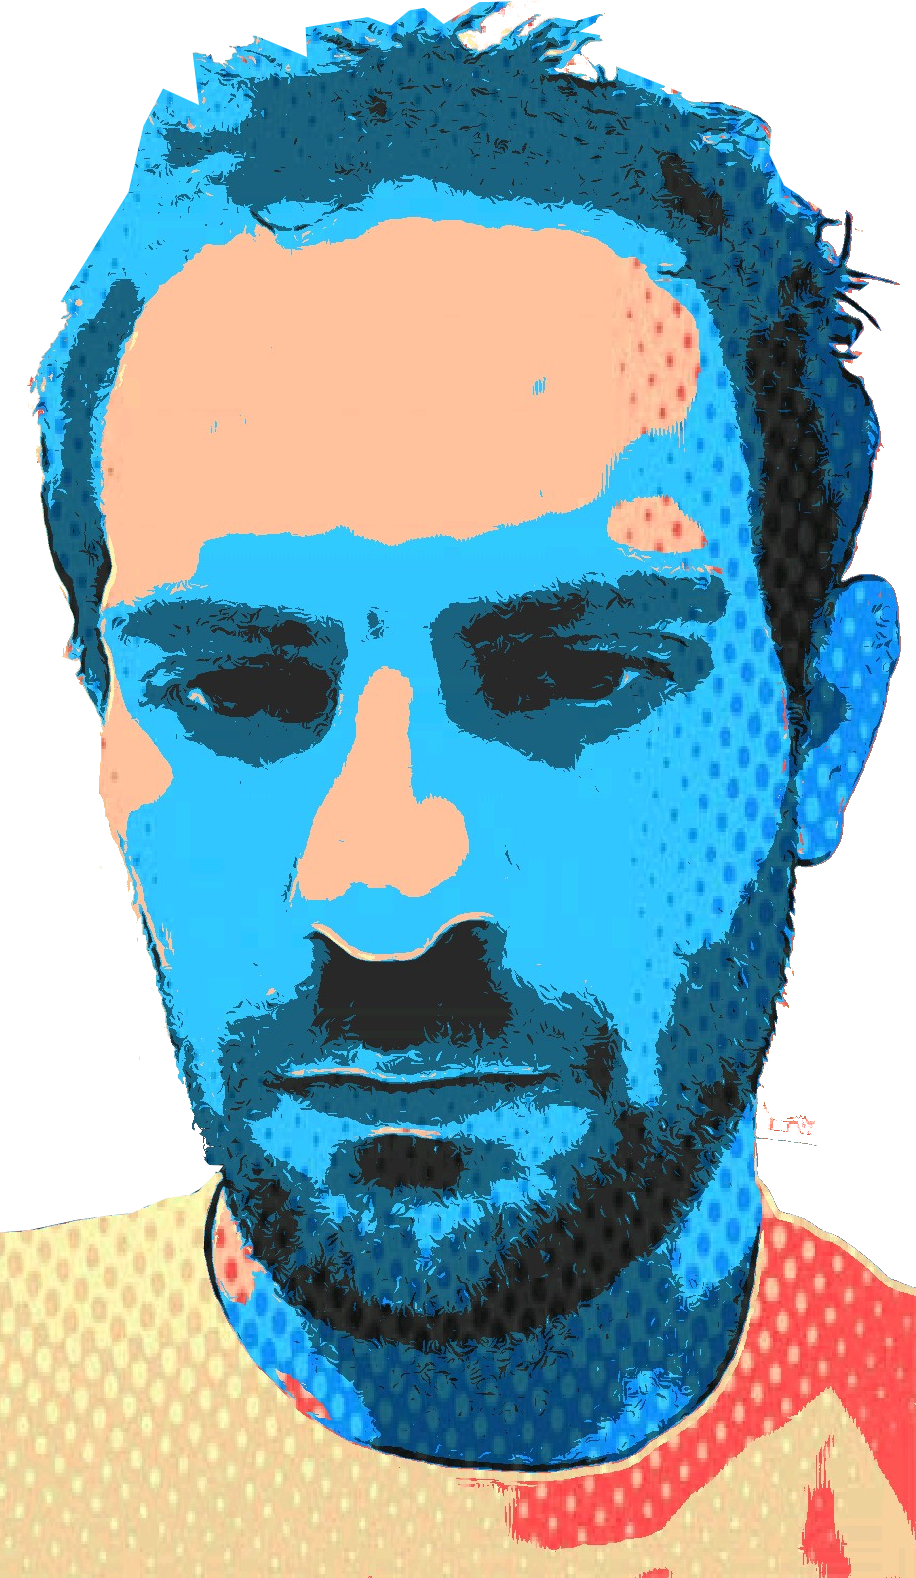
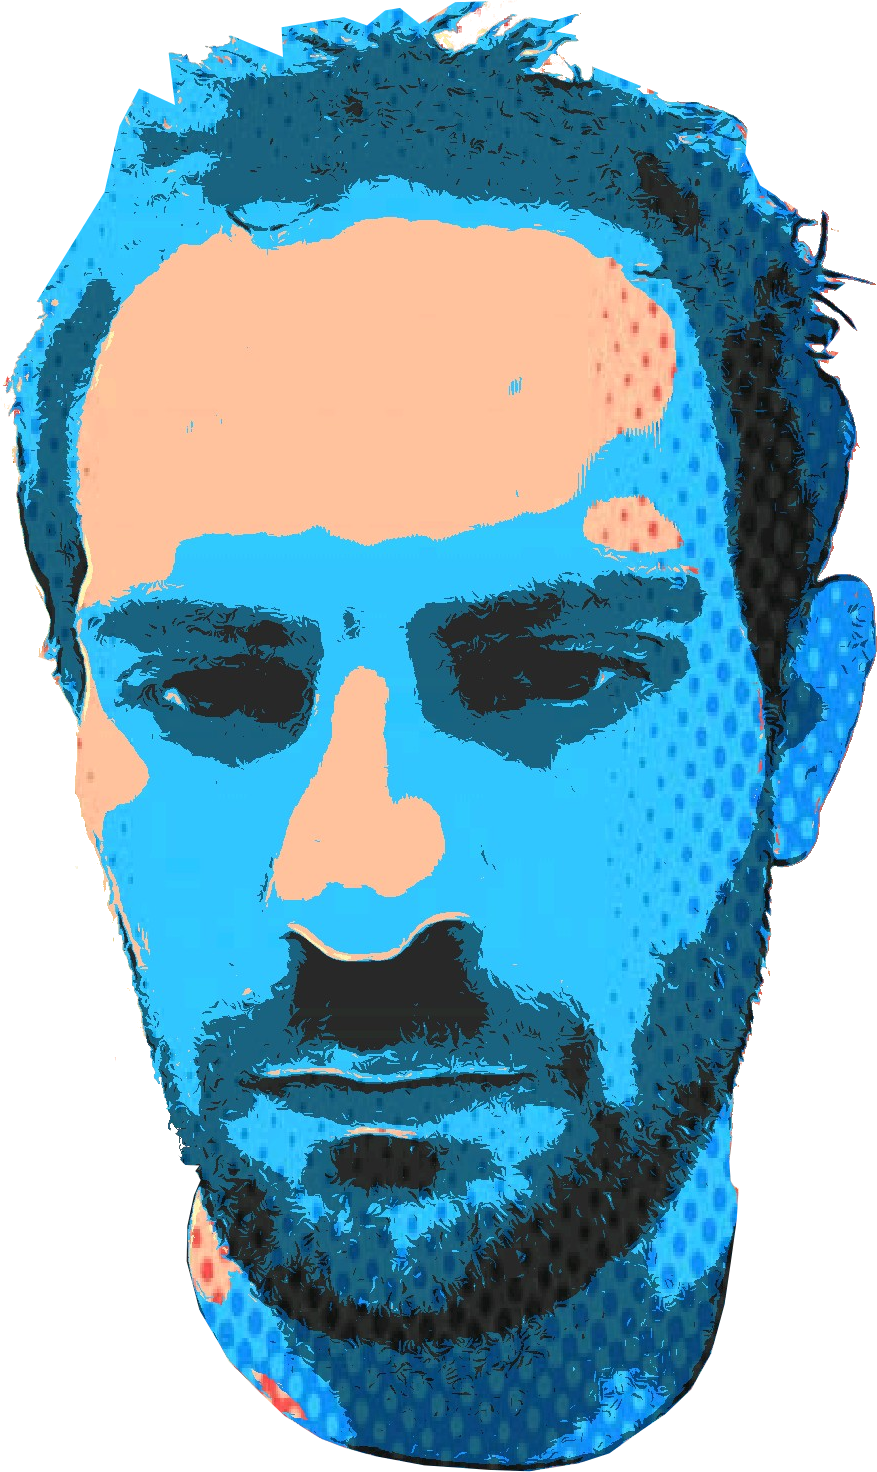
"Clean up and fix side navigation"

diff --git a/Portfolio2.css b/Portfolio2.css
@@ -4,40 +4,53 @@
                 box-sizing: border-box;
                 overflow: hidden;
             }
+            
+            body {
+                background-image: url("meredblue.png"), radial-gradient(circle, rgba(48, 201, 254, 1) 20%, rgba(243, 208, 156, 1) 67%, rgba(254, 83, 83, 1) 82%, rgba(22, 97, 127, 1) 87%, rgba(24, 25, 25, 1) 100%);
+                ;
+                background-position: center;
+                background-repeat: no-repeat;
+                background-size: contain;
+            }
             /** ===========GRID================ **/
             
             .grid-container {
                 display: grid;
                 grid-template-columns: 0.4fr 1.1fr;
-                grid-template-rows: 0.4fr 1.1fr 0.4fr;
+                grid-template-rows: 0.4fr 1.1fr 0.1fr;
                 gap: 0px 0px;
                 grid-template-areas: "header header" "nav main" "footer footer";
             }
             
             .grid-head {
                 grid-area: header;
-                background-color: black;
-                font-family: 'Voodoo Vampire';
+                background-image: url('DOLLLOGO.png');
+                background-repeat: no-repeat;
+                background-position: right;
+                background-size: contain;
                 max-height: 175px;
             }
             
-            .grid-head h1 {
+            .main h1 {
                 display: flex;
                 justify-content: flex-end;
                 font-size: 6vw;
-                margin-top: -90px;
-                color: green;
             }
             /** ===========NAVIGATION================ **/
             
+            body {
+                transition: background-color .5s;
+            }
+            
             .nav {
-                grid-area: nav;
-                margin: auto;
-                width: 50%;
+                height: 100%;
+                width: 0;
                 position: fixed;
                 z-index: 1;
                 top: 0;
                 left: 0;
+                background-color: #111;
+                overflow-x: hidden;
                 transition: 0.5s;
                 padding-top: 60px;
             }
@@ -51,9 +64,11 @@
                 transition: 0.3s;
             }
             
-            .nav a:hover {}
+            .nav a:hover {
+                color: #f1f1f1;
+            }
             
-            .nav .closbtn {
+            .nav .closebtn {
                 position: absolute;
                 top: 0;
                 right: 25px;
@@ -63,19 +78,20 @@
             /** ===========MAIN================ **/
             
             .main {
-                background-image: url("meredblue.png");
-                background-position: center;
-                background-repeat: no-repeat;
-                background-size: cover;
                 grid-area: main;
                 min-height: 400px;
+            }
+            
+            #main {
+                transition: margin-left .5s;
+                padding: 16px;
             }
             /** ===========FOOTER================ **/
             
             .foot {
                 display: flex;
                 grid-area: footer;
-                background-color: black;
+                background-color: transparent;
                 position: fixed;
                 bottom: 0;
                 right: 0;
@@ -84,7 +100,7 @@
             /** ===========SOCIAL MEDIA================ **/
             
             .social {
-                background-color: darkviolet;
+                background-color: transparent;
                 height: auto;
                 margin-left: auto;
             }
@@ -98,4 +114,21 @@
                 display: flex;
                 width: 100px;
                 margin: auto;
+            }
+            /** ===========TYPOGRAPHY================ **/
+            
+            #myname {
+                color: #FFFFFF;
+                text-shadow: 2px 2px 0 #4074b5, 2px -2px 0 #4074b5, -2px 2px 0 #4074b5, -2px -2px 0 #4074b5, 2px 0px 0 #4074b5, 0px 2px 0 #4074b5, -2px 0px 0 #4074b5, 0px -2px 0 #4074b5;
+                font-family: 'Monday Routines';
+            }
+            /** ===========MEDIA Q's================ **/
+            
+            @media screen and (max-height: 450px) {
+                .nav {
+                    padding-top: 15px;
+                }
+                .nav a {
+                    font-size: 18px;
+                }
             }

diff --git a/Portfolio2.html b/Portfolio2.html
@@ -17,8 +17,10 @@
 <body class="grid-container">
 
     <header class="grid-head">
-        <img src="DOLLLOGO.png" alt="Logo" id="logo">
-        <h1>Eric Dollinger</h1>
+
+
+    </header>
+    <aside>
         <nav id="myNav" class="nav">
             <a href="javascript:void(0)" class="closebtn" onclick="closeNav()">&times;</a>
             <a href="#" id="home">HOME</a>
@@ -27,10 +29,10 @@
             <a href="#" id="contact">CONTACT</a>
         </nav>
         <span style="font-size:30px;cursor:pointer" onclick="openNav()">&#9776; open</span>
-    </header>
+    </aside>
+    <main class="main" id="main">
 
-    <main class="main">
-        <h2>#</h2>
+        <h1 id="myname">Eric Dollinger</h1>
 
     </main>
     <footer class="foot">
@@ -42,18 +44,25 @@
             <a href="#" alt="My Twitter Page"><i class="fab fa-twitter-square fa-5x"></i></a>
             <a href="#" alt="My Linkedin Page"><i class="fab fa-linkedin fa-5x"></i></a>
         </div>
+
+
     </footer>
 
+    <script>
+        function openNav() {
+            document.getElementById("myNav").style.width = "250px";
+            document.getElementById("main").style.marginLeft = "250px";
+            document.body.style.backgroundColor = "rgba(0,0,0,0.4)";
+        }
+
+        function closeNav() {
+            document.getElementById("myNav").style.width = "0";
+            document.getElementById("main").style.marginLeft = "0";
+            document.body.style.backgroundColor = "white";
+        }
+    </script>
 
 </body>
-<script>
-    function openNav() {
-        document.getElementById("myNav").style.width = "250px";
-    }
 
-    function closeNav() {
-        document.getElementById("myNav").style.width = "0";
-    }
-</script>
 
 </html>
